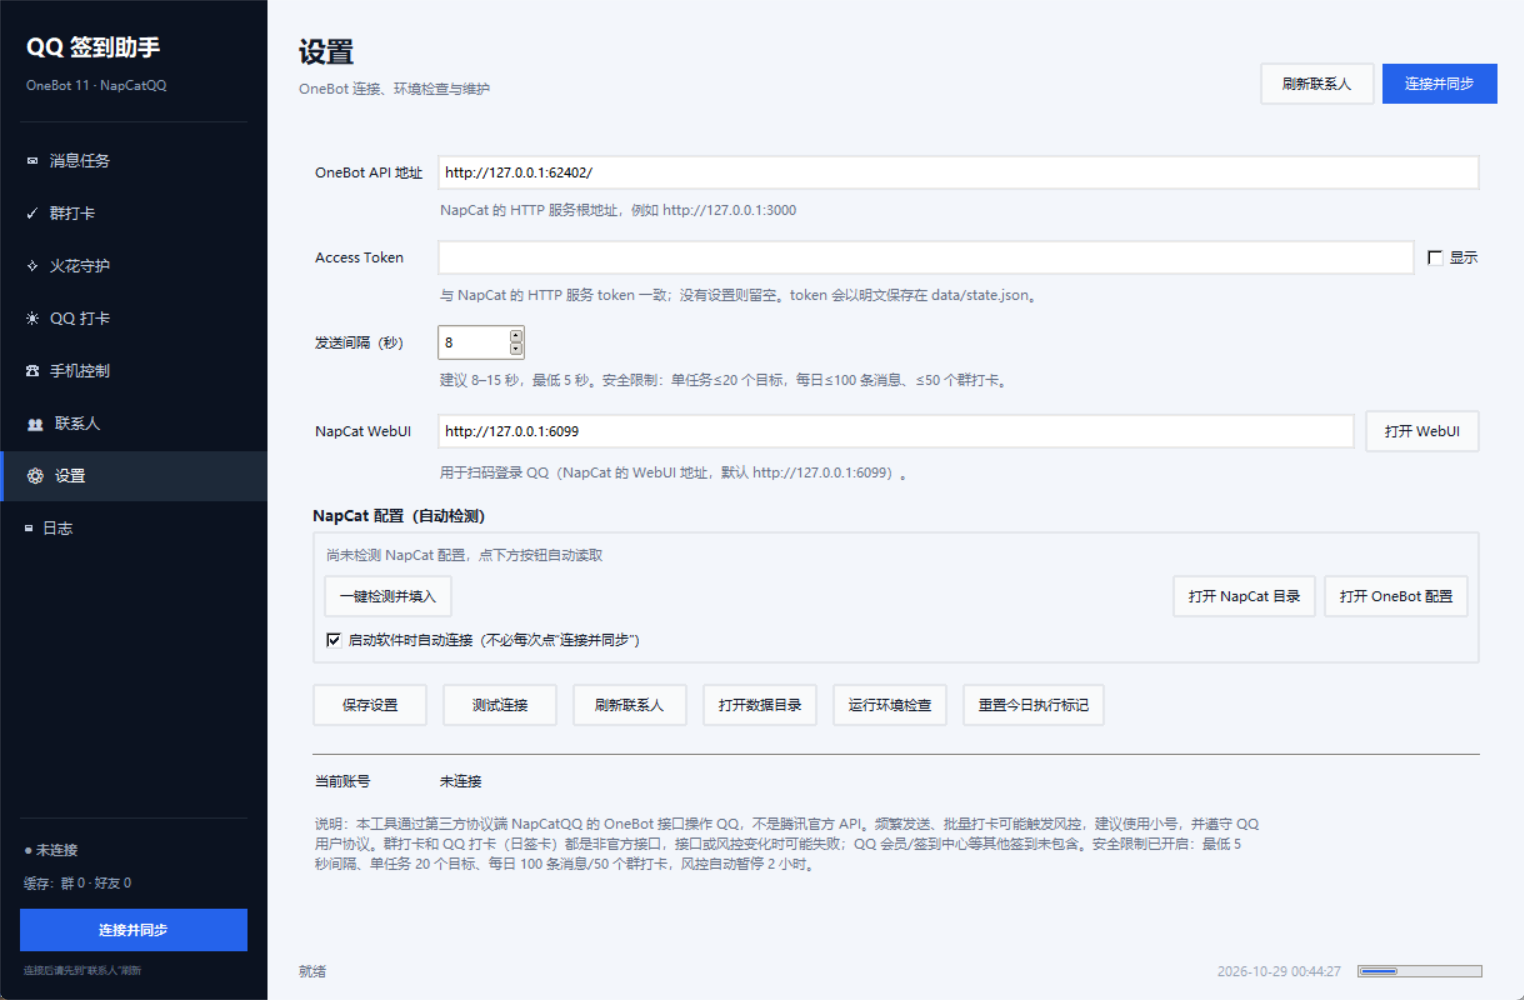
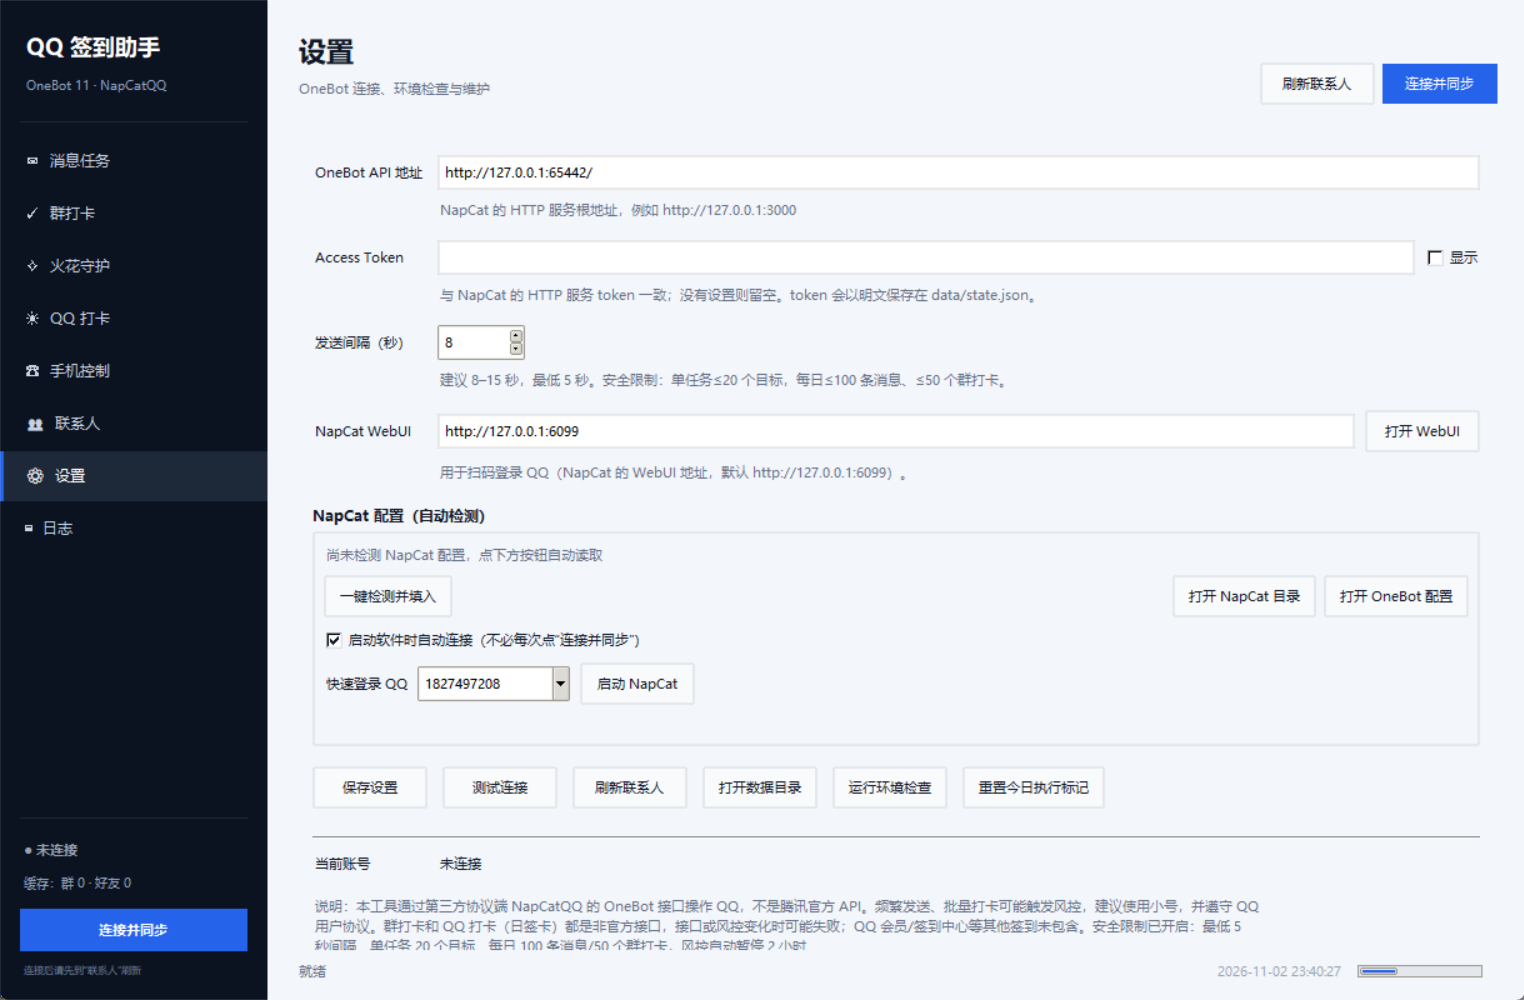
Add NapCat quick-login launcher in settings

diff --git a/qq_signin/ui/tabs.py b/qq_signin/ui/tabs.py
@@ -32,6 +32,9 @@ from ..core.napcat import (
     best_config,
     find_onebot_configs,
     has_remote_client,
+    is_napcat_running,
+    launcher_path,
+    quick_login_accounts,
     write_remote_client,
 )
 from ..core.safety import MAX_SIGN_GROUPS_PER_RUN
@@ -1144,6 +1147,8 @@ class SettingsTab(ttk.Frame):
         self.napcat_config_var = tk.StringVar()
         self.napcat_info_var = tk.StringVar(value="尚未检测 NapCat 配置")
         self.auto_connect_var = tk.BooleanVar(value=True)
+        self.quick_qq_var = tk.StringVar()
+        self.napcat_launch_status_var = tk.StringVar(value="")
         self.show_token_var = tk.BooleanVar(value=False)
         self.account_var = tk.StringVar(value="未连接")
         self._build()
@@ -1265,6 +1270,25 @@ class SettingsTab(ttk.Frame):
             bd=0,
             highlightthickness=0,
         ).grid(row=2, column=0, columnspan=3, sticky="w", pady=(8, 0))
+        quick = tk.Frame(napcat_box, bg=BG)
+        quick.grid(row=3, column=0, columnspan=3, sticky="w", pady=(8, 0))
+        ttk.Label(quick, text="快速登录 QQ").pack(side=tk.LEFT)
+        self.quick_qq_box = ttk.Combobox(
+            quick, textvariable=self.quick_qq_var, width=16
+        )
+        self.quick_qq_box.pack(side=tk.LEFT, padx=(6, 0))
+        ttk.Button(
+            quick, text="启动 NapCat", command=self._start_napcat
+        ).pack(side=tk.LEFT, padx=(8, 0))
+        ttk.Label(
+            quick, text="可手动输入其它 QQ 号", foreground="#667085"
+        ).pack(side=tk.LEFT, padx=(8, 0))
+        ttk.Label(
+            napcat_box,
+            textvariable=self.napcat_launch_status_var,
+            foreground="#667085",
+            wraplength=780,
+        ).grid(row=4, column=0, columnspan=3, sticky="w", pady=(4, 0))
 
         buttons = ttk.Frame(self)
         buttons.grid(row=9, column=0, columnspan=2, sticky=tk.W, pady=(8, 12))
@@ -1322,6 +1346,8 @@ class SettingsTab(ttk.Frame):
         self.interval_var.set(f"{config.send_interval:g}")
         self.napcat_config_var.set(config.napcat_config)
         self.auto_connect_var.set(config.auto_connect)
+        self.quick_qq_var.set(config.napcat_qq)
+        self._refresh_quick_accounts()
         if config.napcat_config:
             self.napcat_info_var.set(f"已保存配置：{config.napcat_config}")
         else:
@@ -1343,6 +1369,7 @@ class SettingsTab(ttk.Frame):
                 interval,
                 self.webui_var.get(),
                 napcat_config=self.napcat_config_var.get(),
+                napcat_qq=self.quick_qq_var.get(),
                 auto_connect=self.auto_connect_var.get(),
             )
         except ValueError as exc:
@@ -1398,6 +1425,7 @@ class SettingsTab(ttk.Frame):
             f"已读取：{chosen.path}\nHTTP 服务 {state}：{chosen.url}"
         )
         self._save()
+        self._refresh_quick_accounts()
         reachable = self._port_open(chosen.host, chosen.port)
         messagebox.showinfo(
             "已读取 NapCat 配置",
@@ -1420,6 +1448,75 @@ class SettingsTab(ttk.Frame):
                 return True
         except OSError:
             return False
+
+    def _refresh_quick_accounts(self) -> None:
+        config = best_config()
+        accounts = quick_login_accounts(config) if config else []
+        login = self.service.login_info
+        if not accounts and login is not None:
+            accounts = [str(login.user_id)]
+        self.quick_qq_box.configure(values=accounts)
+        if not self.quick_qq_var.get().strip() and accounts:
+            self.quick_qq_var.set(accounts[0])
+
+    def _start_napcat(self) -> None:
+        config = best_config()
+        if config is None:
+            messagebox.showinfo(
+                "没有找到 NapCat",
+                "先点“一键检测并填入”，或手动确认 OneBot 地址。",
+                parent=self,
+            )
+            return
+        launcher = launcher_path(config)
+        if launcher is None:
+            messagebox.showinfo(
+                "没有找到启动脚本",
+                f"在 {config.root} 下没有找到 launcher.bat。",
+                parent=self,
+            )
+            return
+        qq = self.quick_qq_var.get().strip()
+        if not qq.isdigit():
+            messagebox.showinfo(
+                "QQ 号不正确",
+                "请选择或输入要快速登录的 QQ 号。",
+                parent=self,
+            )
+            return
+        if is_napcat_running():
+            messagebox.showinfo(
+                "NapCat 已在运行",
+                "检测到 NapCatWinBootMain.exe 还在运行。\n\n"
+                "请先完全退出 NapCat，再点启动。",
+                parent=self,
+            )
+            return
+        if not messagebox.askyesno(
+            "启动 NapCat",
+            f"将启动：\n{launcher}\n\n"
+            f"快速登录 QQ：{qq}\n\n"
+            "如果 Windows 弹出 UAC，请点“是”。\n继续？",
+            parent=self,
+        ):
+            return
+        try:
+            subprocess.Popen(
+                ["cmd.exe", "/c", str(launcher), "-q", qq],
+                cwd=str(config.root),
+                creationflags=getattr(subprocess, "CREATE_NEW_CONSOLE", 0),
+            )
+        except OSError as exc:
+            messagebox.showerror("启动失败", str(exc), parent=self)
+            return
+        self._save()
+        self.napcat_launch_status_var.set(
+            f"已启动 NapCat（{qq}），等待登录；登录后软件会自动连接。"
+        )
+        self.service.logger.info(
+            "已启动 NapCat：%s -q %s", launcher, qq
+        )
+        self.app.set_status("正在启动 NapCat，等待登录…", "busy")
 
     def _napcat_config_path(self) -> Path | None:
         raw = self.napcat_config_var.get().strip()

diff --git a/qq_signin/core/napcat.py b/qq_signin/core/napcat.py
@@ -8,6 +8,8 @@ from __future__ import annotations
 
 import json
 import os
+import re
+import subprocess
 import time
 from dataclasses import dataclass
 from pathlib import Path
@@ -119,6 +121,58 @@ def best_config() -> NapCatConfig | None:
     if not configs:
         return None
     return next((item for item in configs if item.enabled), configs[0])
+
+
+def launcher_path(config: NapCatConfig) -> Path | None:
+    """返回 NapCat 目录里的启动脚本，优先 launcher.bat。"""
+    for name in (
+        "launcher.bat",
+        "launcher-win10.bat",
+        "launcher-user.bat",
+        "launcher-win10-user.bat",
+    ):
+        path = config.root / name
+        if path.is_file():
+            return path
+    return None
+
+
+def quick_login_accounts(config: NapCatConfig) -> list[str]:
+    """从 NapCat 配置文件名里找出可快速登录的 QQ 号。"""
+    accounts: set[str] = set()
+    config_dir = config.path.parent
+    for path in config_dir.glob("*.json"):
+        match = re.match(
+            r"(?:onebot11|napcat)_(\d{5,12})\.json$", path.name
+        )
+        if match:
+            accounts.add(match.group(1))
+    match = re.search(r"onebot11_(\d{5,12})\.json$", config.path.name)
+    if match:
+        accounts.add(match.group(1))
+    return sorted(accounts, key=lambda value: int(value))
+
+
+def is_napcat_running() -> bool:
+    """检查 NapCat 启动器进程是否还在。"""
+    try:
+        result = subprocess.run(
+            [
+                "tasklist",
+                "/FI",
+                "IMAGENAME eq NapCatWinBootMain.exe",
+                "/NH",
+            ],
+            capture_output=True,
+            text=True,
+            encoding="utf-8",
+            errors="ignore",
+            timeout=5,
+            creationflags=getattr(subprocess, "CREATE_NO_WINDOW", 0),
+        )
+    except (OSError, subprocess.SubprocessError):
+        return False
+    return "NapCatWinBootMain.exe" in result.stdout
 
 
 def find_qq_emoji_image(face_id: int) -> Path | None:

diff --git a/qq_signin/core/models.py b/qq_signin/core/models.py
@@ -1,4 +1,4 @@
-"""应用数据模型。
+"""应用数据模型。
 
 所有需要落盘的对象都提供 ``to_dict`` / ``from_dict``，方便直接查看和手改
 ``data/state.json``。这里的字段尽量保持简单，避免把网络层对象混进来。
@@ -510,6 +510,7 @@ class AppConfig:
     send_interval: float = 8.0
     napcat_webui: str = "http://127.0.0.1:6099"
     napcat_config: str = ""
+    napcat_qq: str = ""
     auto_connect: bool = True
     group_checkin: AutoSignConfig = field(
         default_factory=lambda: AutoSignConfig(time="08:05")
@@ -525,6 +526,7 @@ class AppConfig:
         self.token = str(self.token).strip()
         self.napcat_webui = str(self.napcat_webui).strip().rstrip("/")
         self.napcat_config = str(self.napcat_config).strip()
+        self.napcat_qq = str(self.napcat_qq).strip()
         try:
             self.send_interval = max(5.0, min(60.0, float(self.send_interval)))
         except (TypeError, ValueError):
@@ -537,6 +539,7 @@ class AppConfig:
             "send_interval": self.send_interval,
             "napcat_webui": self.napcat_webui,
             "napcat_config": self.napcat_config,
+            "napcat_qq": self.napcat_qq,
             "auto_connect": self.auto_connect,
             "group_checkin": self.group_checkin.to_dict(),
             "personal_sign": self.personal_sign.to_dict(),
@@ -552,6 +555,7 @@ class AppConfig:
             send_interval=raw.get("send_interval", 8.0),
             napcat_webui=raw.get("napcat_webui", "http://127.0.0.1:6099"),
             napcat_config=raw.get("napcat_config", ""),
+            napcat_qq=raw.get("napcat_qq", ""),
             auto_connect=raw.get("auto_connect", True),
             group_checkin=AutoSignConfig.from_dict(
                 raw.get("group_checkin", {}) or {}, "08:05"

diff --git a/tests/test_napcat.py b/tests/test_napcat.py
@@ -10,6 +10,8 @@ from pathlib import Path
 from qq_signin.core.napcat import (
     NapCatConfig,
     has_remote_client,
+    launcher_path,
+    quick_login_accounts,
     write_remote_client,
 )
 
@@ -19,9 +21,12 @@ class NapCatConfigTests(unittest.TestCase):
         self.temp = tempfile.TemporaryDirectory()
         self.addCleanup(self.temp.cleanup)
         root = Path(self.temp.name) / "NapCat.Shell"
+        self.root = root
+        root.mkdir(parents=True, exist_ok=True)
+        (root / "launcher.bat").write_text("@echo off\n", encoding="utf-8")
         config_dir = root / "config"
         config_dir.mkdir(parents=True)
-        self.path = config_dir / "onebot11_123.json"
+        self.path = config_dir / "onebot11_123456.json"
         self.path.write_text(
             json.dumps(
                 {
@@ -49,6 +54,12 @@ class NapCatConfigTests(unittest.TestCase):
             port=3000,
             server_name="test",
             enabled=True,
+        )
+
+    def test_quick_login_helpers(self) -> None:
+        self.assertEqual(quick_login_accounts(self.config), ["123456"])
+        self.assertEqual(
+            launcher_path(self.config), self.root / "launcher.bat"
         )
 
     def test_write_remote_client(self) -> None:

diff --git a/qq_signin/core/service.py b/qq_signin/core/service.py
@@ -243,6 +243,7 @@ class AppService:
         napcat_webui: str,
         *,
         napcat_config: str = "",
+        napcat_qq: str = "",
         auto_connect: bool = True,
     ) -> AppConfig:
         """保存连接配置；地址不合法时抛 ``ValueError``。"""
@@ -259,6 +260,7 @@ class AppService:
             state.config.send_interval = interval
             state.config.napcat_webui = webui
             state.config.napcat_config = str(napcat_config or "").strip()
+            state.config.napcat_qq = str(napcat_qq or "").strip()
             state.config.auto_connect = bool(auto_connect)
             return state.config
 

diff --git a/qq_signin/core/onebot.py b/qq_signin/core/onebot.py
@@ -107,7 +107,7 @@ class OneBotClient:
         headers = {
             "Content-Type": "application/json; charset=utf-8",
             "Accept": "application/json",
-            "User-Agent": "qq-signin/0.6.4",
+            "User-Agent": "qq-signin/0.7",
         }
         if self.token:
             headers["Authorization"] = f"Bearer {self.token}"

diff --git a/qq_signin/__init__.py b/qq_signin/__init__.py
@@ -8,4 +8,4 @@
 - 执行手机 QQ 的 QQ 打卡（日签卡）。
 """
 
-__version__ = "0.6.4"
+__version__ = "0.7.0"

diff --git a/README.md b/README.md
@@ -126,10 +126,13 @@ python -m qq_signin
 
 设置页还可以直接：
 
+- **快速登录 QQ**：选择或输入 QQ 号，点“启动 NapCat”，会运行检测到的 `launcher.bat -q <QQ号>`；
 - **打开 WebUI**：扫码登录 NapCat；
 - **打开 NapCat 目录**；
 - **打开 OneBot 配置**；
 - **运行环境检查**。
+
+> 启动前请先完全退出已有的 NapCat；如果检测到 `NapCatWinBootMain.exe` 还在运行，软件会拒绝重复启动。
 
 ![设置](docs/ui-settings.png)
 
